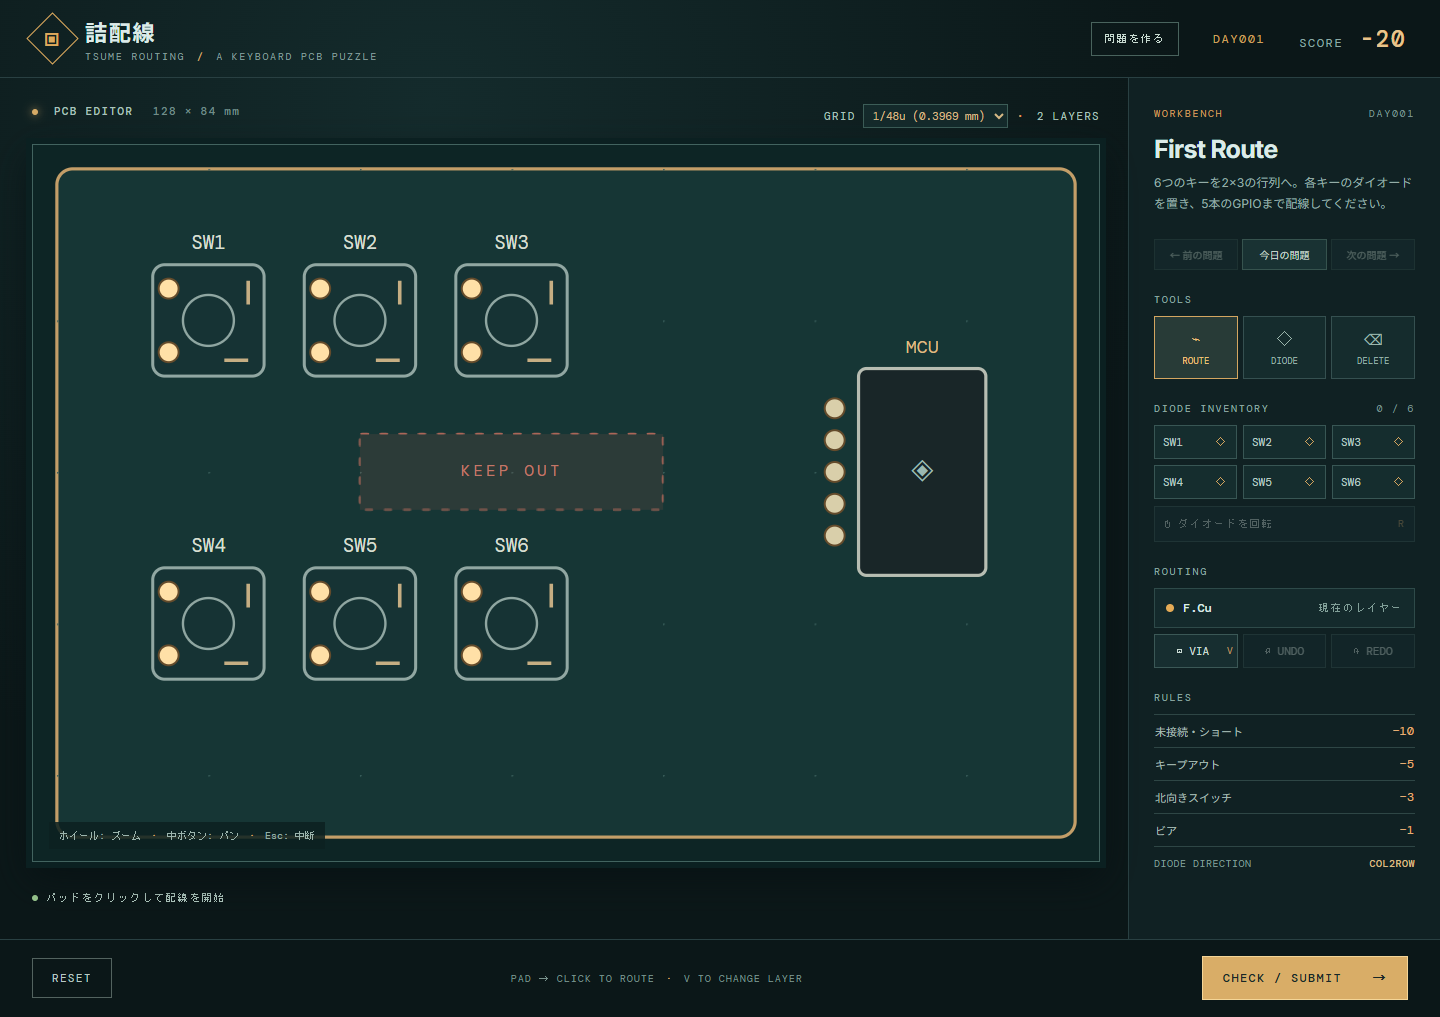
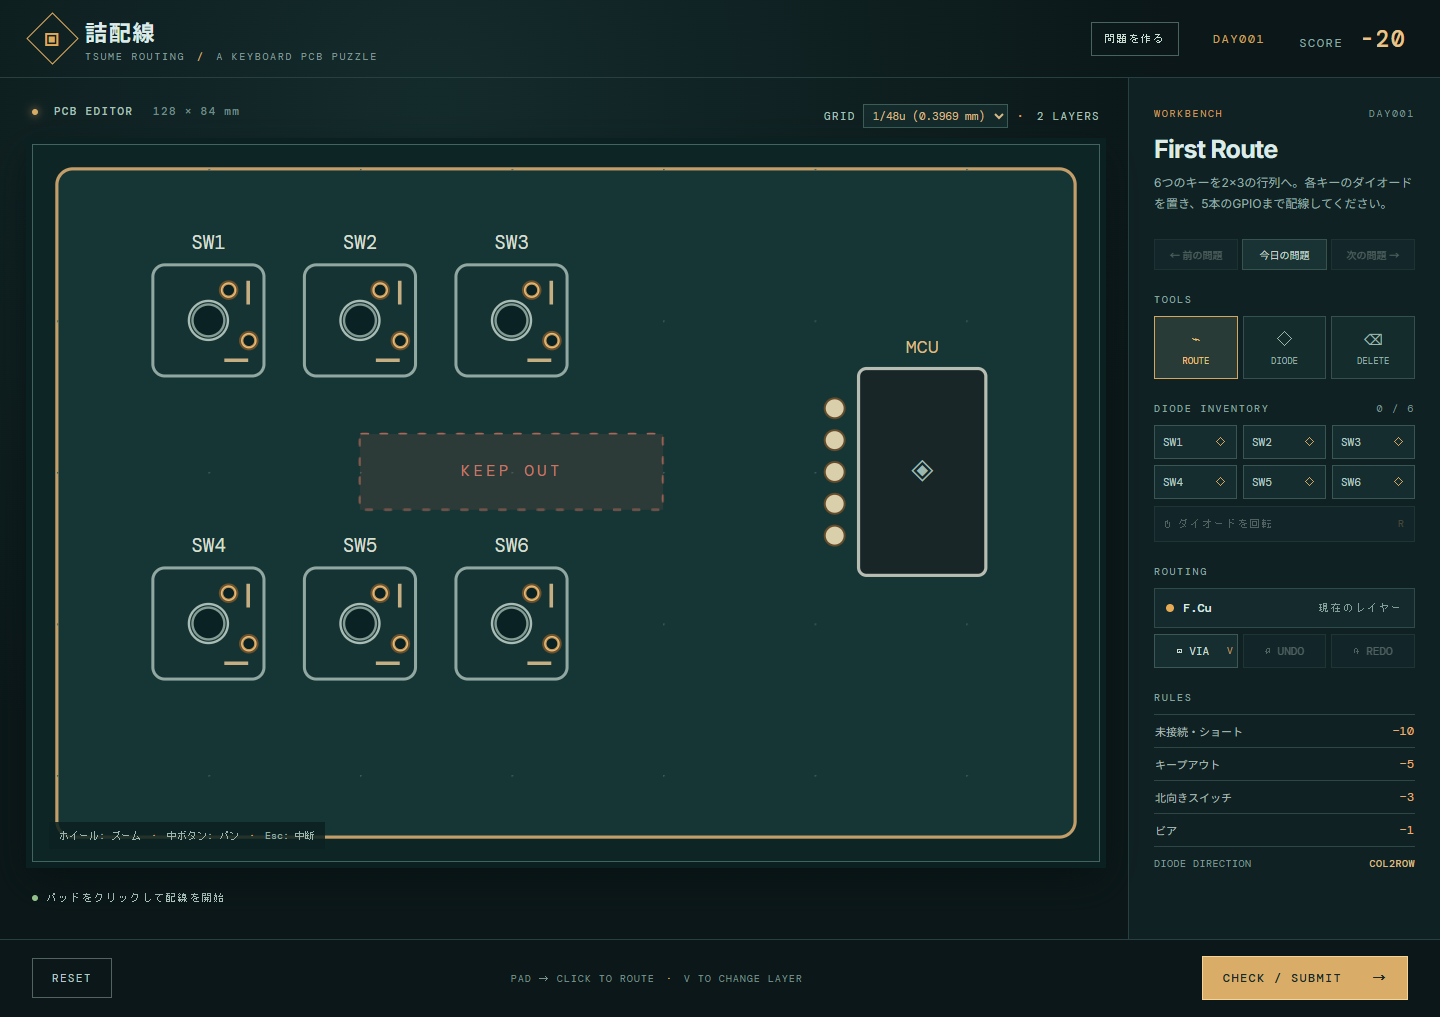
Match Cherry MX 3-pin switch footprint

diff --git a/src/App.tsx b/src/App.tsx
@@ -9,6 +9,7 @@ import {encodePuzzle} from './lib/share'
 import Editor from './Editor'
 import {loadProgress,saveProgress} from './lib/progress'
 import {todayNumber} from './lib/daily'
+import {MX_3PIN} from './lib/mx'
 
 const other=(l:Layer):Layer=>l==='F.Cu'?'B.Cu':'F.Cu'
 const asNodes=(from:RouteNode,to:Point):RouteNode[]=>snapPath(from,to).filter(p=>!near(p,from)).map(p=>({...p,layer:from.layer}))
@@ -67,7 +68,7 @@ export default function App(){
   const onPad=(pad:typeof allPads[number],e:React.MouseEvent)=>{
     e.stopPropagation();if(tool!=='route')return
     if(!draft){setDraft([{x:pad.x,y:pad.y,layer:'F.Cu'}]);setCursor(pad);setNotice(`${pad.label} から配線中`);return}
-    if(draft[draft.length-1].layer!=='F.Cu'){setNotice('パッドへはF.Cuで接続してください');return}
+    if(draft[draft.length-1].layer!=='F.Cu'&&pad.kind!=='switch'){setNotice('このパッドへはF.Cuで接続してください');return}
     finish(pad)
   }
   const preview=draft&&cursor?asNodes(draft[draft.length-1],cursor):[]
@@ -83,12 +84,12 @@ export default function App(){
         <defs><pattern id="grid-major" width={KEY_UNIT_MM} height={KEY_UNIT_MM} patternUnits="userSpaceOnUse"><circle cx="0" cy="0" r=".22" fill="var(--grid-dot)"/></pattern><pattern id="grid-minor" width={gridStep(gridDenominator)} height={gridStep(gridDenominator)} patternUnits="userSpaceOnUse"><circle cx="0" cy="0" r=".08" fill="var(--grid-dot)"/></pattern></defs>
         <rect x="0" y="0" width={puzzle.board.width} height={puzzle.board.height} rx="2" className="pcb"/>{view.w<65&&<rect x="0" y="0" width={puzzle.board.width} height={puzzle.board.height} rx="2" fill="url(#grid-minor)"/>}<rect x="0" y="0" width={puzzle.board.width} height={puzzle.board.height} rx="2" fill="url(#grid-major)"/>
         {puzzle.keepouts.map(k=><g key={k.id}><rect className="keepout" x={k.x} y={k.y} width={k.width} height={k.height}/><text className="keepout-text" x={k.x+k.width/2} y={k.y+k.height/2}>KEEP OUT</text></g>)}
-        {puzzle.switches.map(s=><g key={s.id} transform={`translate(${s.x} ${s.y}) rotate(${s.rotation})`}><rect className="switch" x="-7" y="-7" width="14" height="14" rx="1.5"/><circle className="switch-core" r="3.2"/><path className="switch-arc" d="M-5 -5 L-2 -5 M5 -5 L5 -2"/><text className="part-label" y="-9" transform={`rotate(${-s.rotation})`}>{s.id}</text></g>)}
+        {puzzle.switches.map(s=><g key={s.id} transform={`translate(${s.x} ${s.y}) rotate(${s.rotation})`}><rect className="switch" x={-MX_3PIN.housingHalf} y={-MX_3PIN.housingHalf} width={MX_3PIN.housingHalf*2} height={MX_3PIN.housingHalf*2} rx="1.5"/><circle className="switch-hole-ring" r={MX_3PIN.centerHoleRadius+.45}/><circle className="switch-hole" r={MX_3PIN.centerHoleRadius} onClick={e=>{e.stopPropagation();setNotice(`${s.id} 中心穴は配線できません`)}}/><path className="switch-arc" d="M-5 -5 L-2 -5 M5 -5 L5 -2"/><text className="part-label" y="-9" transform={`rotate(${-s.rotation})`}>{s.id}</text></g>)}
         <g transform={`translate(${puzzle.mcu.x} ${puzzle.mcu.y})`}><rect className="mcu" x="-4" y="-13" width="16" height="26" rx="1"/><text className="mcu-label" x="4" y="-15">MCU</text><text className="mcu-chip" x="4" y="2">◈</text></g>
         {board.diodes.filter(d=>d.position).map(d=><g key={d.switchId} transform={`translate(${d.position!.x} ${d.position!.y}) rotate(${d.rotation})`} onClick={e=>{if(tool==='place'){e.stopPropagation();setSelected(d.switchId);setNotice(`${d.switchId} 選択中 · 盤面クリックで移動 · Rで回転`)}}}><rect className={`diode ${selected===d.switchId?'selected':''}`} x="-3.5" y="-1.6" width="7" height="3.2" rx=".5"/><path className="diode-symbol" d="M-1 -1 L1 0 L-1 1 Z M1 -1 L1 1"/><text className="diode-label" x="0" y="-3" transform={`rotate(${-d.rotation})`}>{d.switchId} D</text></g>)}
         {board.traces.map(t=><g key={t.id}>{routeLines(t.nodes,t.id,true)}{viaPoints(t.nodes).map((v,i)=><circle key={i} className="via" cx={v.x} cy={v.y} r="1.35"/>)}</g>)}
         {draft&&<g opacity=".72">{routeLines(displayNodes,'draft')}{viaPoints(draft).map((v,i)=><circle key={i} className="via" cx={v.x} cy={v.y} r="1.35"/>)}</g>}
-        {allPads.map(pad=><g key={pad.id} className="pad-group" onClick={e=>onPad(pad,e)}><circle className={`pad ${pad.kind}`} cx={pad.x} cy={pad.y} r="1.25"/><circle className="pad-hit" cx={pad.x} cy={pad.y} r="2.8"/><title>{pad.label}</title></g>)}
+        {allPads.map(pad=><g key={pad.id} className="pad-group" onClick={e=>onPad(pad,e)}><circle className={`pad ${pad.kind}`} cx={pad.x} cy={pad.y} r={pad.kind==='switch'?MX_3PIN.copperRadius:1.25}/>{pad.kind==='switch'&&<circle className="pad-drill" cx={pad.x} cy={pad.y} r={MX_3PIN.pinDrillRadius}/>}<circle className="pad-hit" cx={pad.x} cy={pad.y} r={pad.kind==='switch'?2.4:2.8}/><title>{pad.label}</title></g>)}
         {result&&checked.issues.map((issue,i)=><g key={i}><circle className={`issue ${issue.fatal?'fatal':'warning'}`} cx={issue.point.x} cy={issue.point.y} r="3"/><text className="issue-mark" x={issue.point.x} y={issue.point.y+.8}>!</text></g>)}
       </svg><div className="canvas-hint">ホイール: ズーム <span>·</span> 中ボタン: パン <span>·</span> Esc: 中断</div></div>
       <div className="status"><span className="status-led"/>{notice}<span className="coords">{cursor?`${cursor.x}, ${cursor.y} mm`:''}</span></div>

diff --git a/src/lib/engine.test.ts b/src/lib/engine.test.ts
@@ -19,6 +19,7 @@ describe('electrical and scoring',()=>{
   it('clears a complete matrix',()=>{const r=evaluate(puzzle,solved());expect(r.clear).toBe(true);expect(r.missing).toBe(0);expect(r.shorts).toBe(0)})
   it('finds a disconnected ROW',()=>{const s=solved();s.traces.pop();const r=evaluate(puzzle,s);expect(r.clear).toBe(false);expect(r.missing).toBeGreaterThan(0)})
   it('finds a COL to ROW short',()=>{const s=solved();const p=pads(puzzle,s);const col=p.find(x=>x.id==='SW1:col')!,row=p.find(x=>x.id==='SW1:K')!;s.traces.push(route('short',[col,row]));expect(evaluate(puzzle,s).shorts).toBeGreaterThan(0)})
+  it('connects both layers through plated MX pins without a via',()=>{const s=solved();const p=pads(puzzle,s);const col=p.find(x=>x.id==='SW1:col')!,link=p.find(x=>x.id==='SW1:link')!;s.traces.push(route('short-back',[col,link],'B.Cu'));const r=evaluate(puzzle,s);expect(r.viaCount).toBe(0);expect(r.shorts).toBeGreaterThan(0)})
   it('counts a via and keepout intrusion',()=>{const s=solved();const nodes:RouteNode[]=[{x:20,y:32,layer:'F.Cu'},{x:20,y:32,layer:'B.Cu'},{x:24,y:32,layer:'B.Cu'}];s.traces.push({id:'via',nodes});const r=evaluate(puzzle,s);expect(r.viaCount).toBe(1);expect(r.keepout).toBeGreaterThan(0);expect(r.score).toBe(100-r.keepout*5-1)})
   it('uses geometric contact, including after moving a diode',()=>{const s=solved();expect(evaluate(puzzle,s).clear).toBe(true);s.diodes[0].position={x:25,y:13};expect(evaluate(puzzle,s).clear).toBe(false)})
   it('does not connect tracks on different layers without a via',()=>{const s=solved();s.traces.pop();s.traces.push(route('back-row',[{x:27,y:12},{x:33,y:17}],'B.Cu'));expect(evaluate(puzzle,s).missing).toBeGreaterThan(0)})

diff --git a/src/lib/puzzle.ts b/src/lib/puzzle.ts
@@ -1,5 +1,6 @@
 import raw from '../data/day001.json'
 import type {Puzzle,Point,Pad,BoardState,Rotation} from './model'
+import {mxPin} from './mx'
 
 const rotations = [0,90,180,270]
 export function validatePuzzle(input:unknown):Puzzle {
@@ -31,8 +32,8 @@ export function pads(p:Puzzle,state:BoardState):Pad[] {
   const out:Pad[]=[]
   for(const s of p.switches){
     const at={x:s.x,y:s.y}
-    out.push({...offset(at,{x:-4,y:5},s.rotation),id:`${s.id}:col`,label:`${s.id} COL${s.col}`,net:`COL${s.col}`,kind:'switch'})
-    out.push({...offset(at,{x:4,y:5},s.rotation),id:`${s.id}:link`,label:`${s.id} diode`,net:`LINK:${s.id}`,kind:'switch'})
+    out.push({...mxPin(at,1,s.rotation),id:`${s.id}:col`,label:`${s.id} pin 1 · COL${s.col}`,net:`COL${s.col}`,kind:'switch'})
+    out.push({...mxPin(at,2,s.rotation),id:`${s.id}:link`,label:`${s.id} pin 2 · diode`,net:`LINK:${s.id}`,kind:'switch'})
     const d=state.diodes.find(d=>d.switchId===s.id)
     if(d?.position){
       const left=offset(d.position,{x:-3,y:0},d.rotation),right=offset(d.position,{x:3,y:0},d.rotation)

diff --git a/src/style.css b/src/style.css
@@ -4,3 +4,4 @@
 .editor-orientation{stroke:#e3b779;stroke-width:.7;fill:none;pointer-events:none}
 .daily-nav{display:flex;gap:4px;margin:0 0 8px}.daily-nav button{flex:1;min-width:0;background:#193233;border:1px solid #36534e;color:#c6d9cc;padding:7px 3px;font-size:10px}.daily-nav button:hover:not(:disabled){border-color:#d7af6c;color:#e7c998}
 .grid-control{display:flex;align-items:center;gap:7px}.grid-control select{background:#142a2b;border:1px solid #3c5d57;color:#d8ba86;font:11px 'DM Mono',monospace;padding:3px 5px}.grid-control b{margin-left:2px}
+.switch-hole-ring{fill:none;stroke:#a9bcb3;stroke-width:.3;pointer-events:none}.switch-hole{fill:#0a2223;stroke:#839b92;stroke-width:.3;cursor:not-allowed}.pad-drill{fill:#0a2223;stroke:#c99a57;stroke-width:.14;pointer-events:none}.pad.switch{fill:#e8bc78;stroke:#6c512d}.pad-group:hover .pad-drill{fill:#183838;stroke:#fff2c9}

diff --git a/src/lib/mx.ts b/src/lib/mx.ts
@@ -1,0 +1,22 @@
+import type {Point,Rotation} from './model'
+
+// Cherry MX 1u plate-mount footprint, measured from the non-plated center hole.
+// KiCad SW_Cherry_MX_1.00u_Plate: pad 1 (0, 0), pad 2 (-6.35, 2.54),
+// center hole (-2.54, 5.08) in its pad-1-relative coordinate system.
+export const MX_3PIN={
+  housingHalf:6.985,
+  centerHoleRadius:2,
+  copperRadius:1.1,
+  pinDrillRadius:.75,
+  pin1:{x:2.54,y:-5.08},
+  pin2:{x:-3.81,y:-2.54},
+} as const
+
+export function rotatePoint(pt:Point,r:Rotation):Point{
+  return r===0?pt:r===90?{x:-pt.y,y:pt.x}:r===180?{x:-pt.x,y:-pt.y}:{x:pt.y,y:-pt.x}
+}
+
+export function mxPin(center:Point,pin:1|2,rotation:Rotation):Point{
+  const rotated=rotatePoint(pin===1?MX_3PIN.pin1:MX_3PIN.pin2,rotation)
+  return {x:Number((center.x+rotated.x).toFixed(6)),y:Number((center.y+rotated.y).toFixed(6))}
+}

diff --git a/src/lib/mx.test.ts b/src/lib/mx.test.ts
@@ -1,0 +1,17 @@
+import {expect,it} from 'vitest'
+import {MX_3PIN,mxPin} from './mx'
+import {day001,pads} from './puzzle'
+import {initialState} from './model'
+
+it('places the two electrical pins relative to the MX center hole',()=>{
+  expect(MX_3PIN.centerHoleRadius).toBe(2)
+  expect(mxPin({x:0,y:0},1,0)).toEqual({x:2.54,y:-5.08})
+  expect(mxPin({x:0,y:0},2,0)).toEqual({x:-3.81,y:-2.54})
+  expect(mxPin({x:0,y:0},1,90)).toEqual({x:5.08,y:2.54})
+})
+it('keeps the center hole out of the electrical graph',()=>{
+  const s=day001.switches[0]
+  const electrical=pads(day001,initialState(day001)).filter(p=>p.kind==='switch'&&p.id.startsWith(s.id+':'))
+  expect(electrical).toHaveLength(2)
+  expect(electrical.some(p=>p.x===s.x&&p.y===s.y)).toBe(false)
+})

diff --git a/src/lib/engine.ts b/src/lib/engine.ts
@@ -20,6 +20,9 @@ export function evaluate(p:Puzzle,state:BoardState):Result {
     if(a.layer!==b.layer){viaCount++;dsu.join(node(a,a.layer),node(b,b.layer))}
     else length+=distance(a,b)
   }}
+  // MX electrical pins are plated through holes. The center positioning hole
+  // is non-plated and is deliberately absent from the pad graph.
+  for(const pad of allPads.filter(pad=>pad.kind==='switch'))dsu.join(node(pad,'F.Cu'),node(pad,'B.Cu'))
   const groups=new Map<number,{nets:Set<string>;points:Point[]}>()
   for(const pad of allPads){const root=dsu.find(node(pad,'F.Cu'));const group=groups.get(root)??{nets:new Set<string>(),points:[]};group.nets.add(pad.net);group.points.push(pad);groups.set(root,group)}
   let shorts=0,missing=0

diff --git a/README.md b/README.md
@@ -27,7 +27,9 @@ npm run dev
 
 進行状況はブラウザ内に自動保存され、同じ問題を再読込すると復元されます。
 
-同じ層で配線が交差・接触すると導通します。異なる層ではビアが必要です。各スイッチのCOLパッドを対応するCOL GPIOへ、反対側のパッドを専用ダイオードのスイッチ側へ、ダイオードの残りのパッドを対応するROW GPIOへつないでください。ダイオードのスイッチ側は`COL2ROW`ならアノード、`ROW2COL`ならカソードです。ダイオード内部とスイッチ内部は検証時に短絡として扱いません。
+同じ層で配線が交差・接触すると導通します。異なる層はビアまたはスルーホールのMXピンを介して導通します。各スイッチのCOLパッドを対応するCOL GPIOへ、反対側のパッドを専用ダイオードのスイッチ側へ、ダイオードの残りのパッドを対応するROW GPIOへつないでください。ダイオードのスイッチ側は`COL2ROW`ならアノード、`ROW2COL`ならカソードです。ダイオード内部とスイッチ内部は検証時に短絡として扱いません。
+
+スイッチは[KiCadのCherry MX 3ピン（プレートマウント）フットプリント](https://github.com/KiCad/kicad-footprints/blob/master/Button_Switch_Keyboard.pretty/SW_Cherry_MX_1.00u_Plate.kicad_mod)の位置を使用します。中心の直径4 mm穴は非メッキで配線できません。2つの電気ピンはスルーホールなので、F.CuとB.Cuの両方へ接続できます。
 
 基本点は100点です。未接続・ショートは各−10、キープアウト侵入は−5、北向きスイッチは各−3、ビアは各−1。キープアウト侵入はクリアを妨げません。
 
